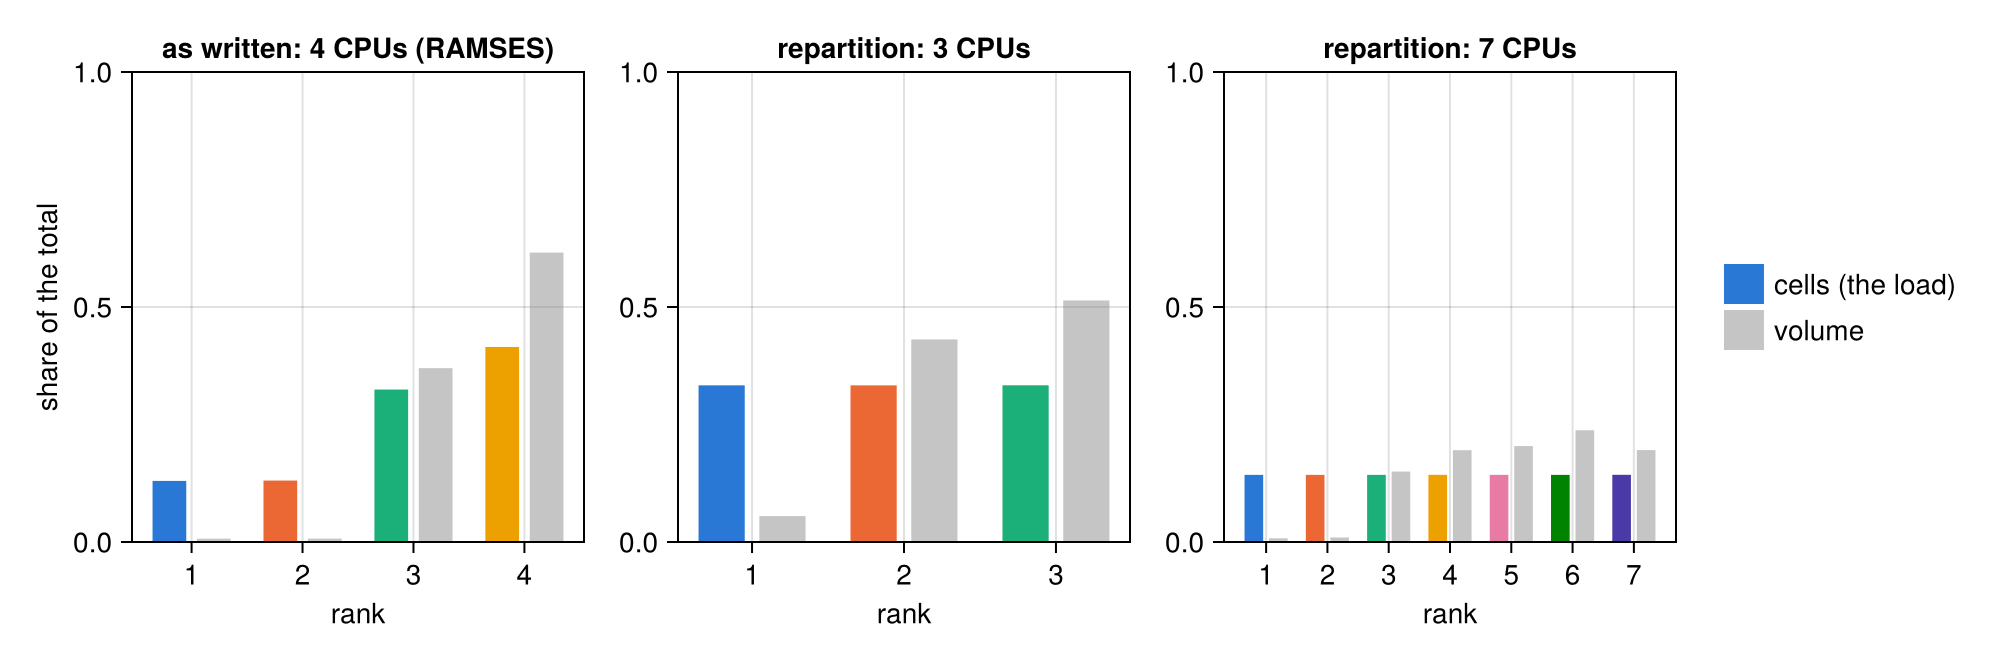
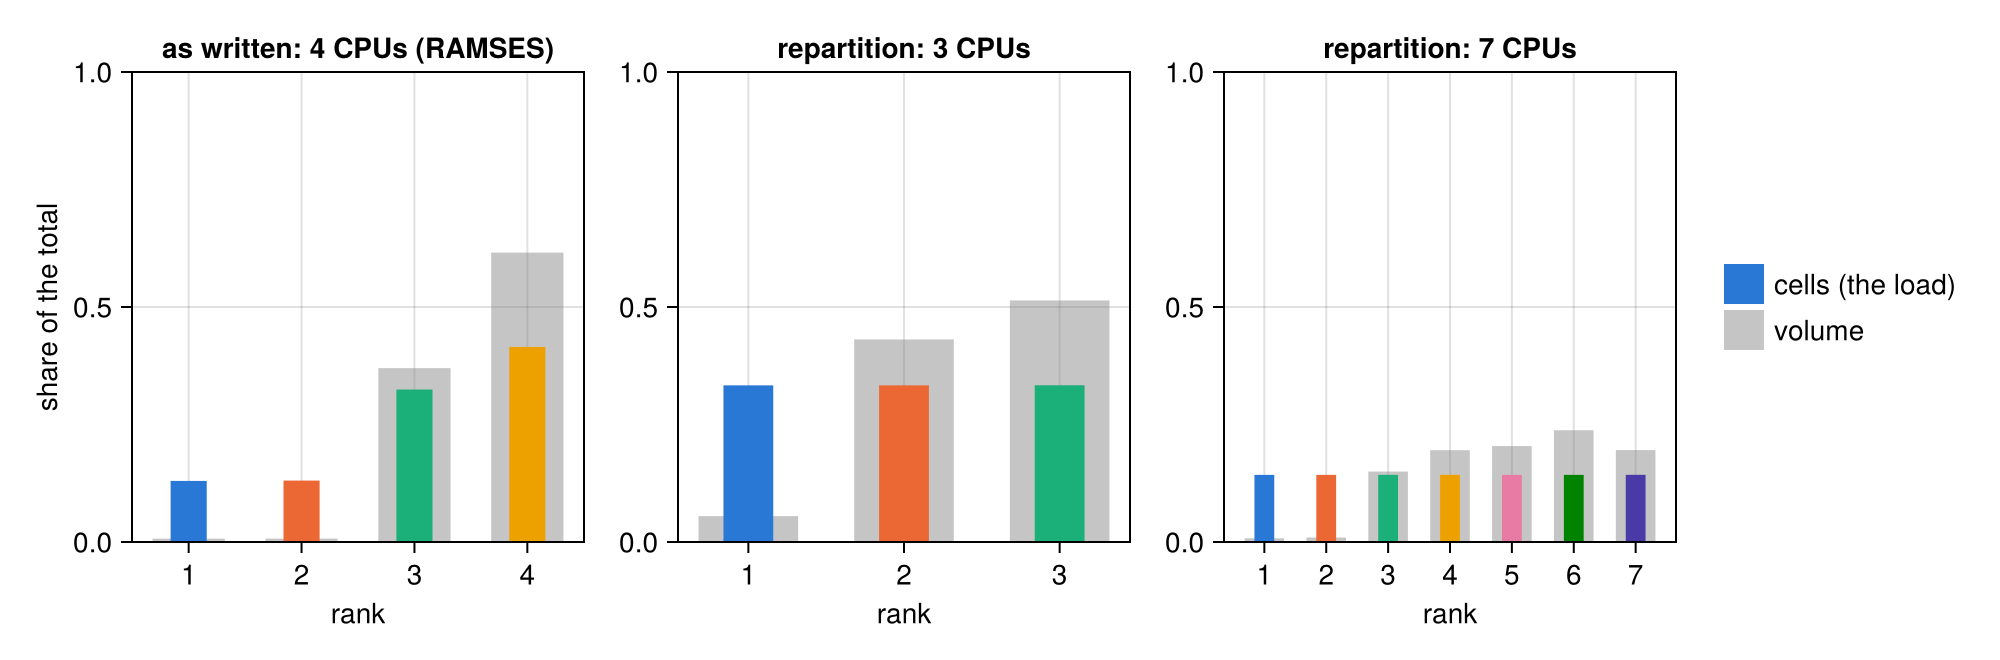
docs(ramses_writer): sources, check names, clearer figures and gravity text
- sources of all simulations: RAMSES, Mera's test data with NOTICE.md, the yt sample output
- the four check headings match the list at the top
- bars centred on each rank; error-map titles say what was converted to what
- why a restart is not bit-exact, and what parents=true changes, in plain words
- data loaded with Mera's smallr or smallc is refused, said in section 8

diff --git a/docs/src/07_2_multi_RAMSES_Restart.md b/docs/src/07_2_multi_RAMSES_Restart.md
@@ -45,11 +45,11 @@ Data loaded with `gethydro` and the other readers works the same. Load the gravi
 
 | function | what it does | more |
 |---|---|---|
-| [`repartition`](@ref) | rewrites a RAMSES output for any number of ranks; every value copied | [§3](#3.-repartition:-what-it-does,-step-by-step), [§5](#5.-Check-2:-the-values-do-not-change) |
+| [`repartition`](@ref) | rewrites a RAMSES output for any number of ranks; every value copied | [§3](#3.-repartition:-what-it-does,-step-by-step), [§5](#5.-Check-2:-same-values) |
 | [`writeramses`](@ref) | writes a RAMSES output from complete Mera data; leaf cells copied, refined cells rebuilt as RAMSES builds them | [§8](#8.-From-Mera-data-and-mera-files:-writeramses) |
 | [`restart_completeness`](@ref) | checks that Mera data holds the whole box: every level, variable and particle | [§8](#8.-From-Mera-data-and-mera-files:-writeramses) |
 | `getgravity(info; parents=true)` | also loads the gravity of the refined cells, which RAMSES needs to continue exactly | [§8](#8.-From-Mera-data-and-mera-files:-writeramses) |
-| [`compareramses`](@ref) | compares two outputs written with any numbers of ranks: octree, every value, every particle | [§5](#5.-Check-2:-the-values-do-not-change) |
+| [`compareramses`](@ref) | compares two outputs written with any numbers of ranks: octree, every value, every particle | [§5](#5.-Check-2:-same-values) |
 | [`upgrade_merafile`](@ref) | adds what a restart needs to a mera file saved before Mera 1.8.0 | [§9](#9.-Mera-files-written-before-1.8.0) |
 
 Both writers take `ordering=:bisection` and `iogroupsize=n` for runs that use them ([§10](#10.-Other-layouts-and-older-RAMSES-versions)).
@@ -57,7 +57,7 @@ Both writers take `ordering=:bisection` and `iogroupsize=n` for runs that use th
 **What to expect.** `repartition`: identical values. `writeramses`: identical leaf cells,
 particles and sinks; refined cells rebuilt. RAMSES then continues to round-off (`1e-15` gas, up to
 `2e-11` gravity), as it does when it changes the rank count itself
-([§7](#7.-Check-4:-RAMSES-continues-the-run), [§11](#11.-Every-kind-of-run,-every-route), [§12](#12.-When-results-differ,-and-by-how-much)). Large outputs: [§13](#13.-Large-outputs:-time-and-memory).
+([§7](#7.-Check-4:-same-evolution), [§11](#11.-Every-kind-of-run,-every-route), [§12](#12.-When-results-differ,-and-by-how-much)). Large outputs: [§13](#13.-Large-outputs:-time-and-memory).
 
 ## About this page
 
@@ -104,6 +104,13 @@ them or set the environment variables. The two main runs, both written on 4 CPUs
 
 The other runs (outflow walls, cosmological, MHD, RT, the public test simulations) are named where
 they are used.
+
+**Sources.** All runs on this page were made with RAMSES ([Teyssier 2002, A&A 385, 337](https://ui.adsabs.harvard.edu/abs/2002A%26A...385..337T)).
+The 4-CPU runs were made for this page. The public test simulations of section 11 are Mera's test
+data (`download_testdata()`); where each comes from and what to cite (RT, sinks, MHD) is listed in
+[`testdata/NOTICE.md`](https://github.com/ManuelBehrendt/Mera.jl/blob/master/testdata/NOTICE.md).
+The old-format cosmological run of section 10 is the yt project's sample output `output_00080`
+([download](https://yt-project.org/data/output_00080.tar.gz)).
 
 ```julia
 # Two RAMSES test runs, both written on 4 CPUs, and the RAMSES build that made them.
@@ -339,8 +346,8 @@ for (col, (ncpu, name, dec)) in enumerate(decs)
     volume = [sum(c.dx^3 for c in leaves if dec.cpu_map[c.l][c.g, c.ind] == k; init=0.0) for k in 1:ncpu]
     ax = Axis(fig[1, col]; title=name, xlabel="rank", ylabel = col == 1 ? "share of the total" : "",
               xticks=1:ncpu, limits=(nothing, (0, 1)))
-    barplot!(ax, (1:ncpu) .- 0.2, cells ./ sum(cells); width=0.38, color=CPU_COLORS[1:ncpu])
-    barplot!(ax, (1:ncpu) .+ 0.2, volume; width=0.38, color=(:gray, 0.45))
+    barplot!(ax, 1:ncpu, volume; width=0.8, color=(:gray, 0.45))                  # wide, behind
+    barplot!(ax, 1:ncpu, cells ./ sum(cells); width=0.4, color=CPU_COLORS[1:ncpu])  # narrow, in front
     @printf("%-28s cells per rank %s   (max/min %.3f)\n", name, string(cells), maximum(cells) / minimum(cells))
 end
 Legend(fig[1, 4], [PolyElement(color=CPU_COLORS[1]), PolyElement(color=(:gray, 0.45))],
@@ -356,10 +363,10 @@ repartition: 7 CPUs          cells per rank [1154, 1154, 1154, 1155, 1154, 1154,
 
 ![](07_2_multi_RAMSES_Restart_files/07_2_multi_RAMSES_Restart_11_3.png)
 
-Coloured bars: after `repartition` every rank holds the same number of cells, to within one.
+Narrow coloured bars, cells: after `repartition` every rank holds the same number of cells, to within one.
 RAMSES's own split is uneven (1,050 to 3,353 cells): it rebalances only every `nremap` steps, with
-its own cost function, and will rebalance the converted run the same way. Grey bars: the volume per
-rank differs a lot.
+its own cost function, and will rebalance the converted run the same way. Wide grey bars, volume: the
+volume per rank differs a lot.
 
 The cosmological test run at a = 0.2, split for 16 ranks in both orderings Mera writes (section 10).
 Left: the refinement level in a slice through the finest cells. Middle: Hilbert domains, pieces of
@@ -476,7 +483,7 @@ rep = repartition(6, SEDOV, 3; outpath=joinpath(WORK, "sedov_3cpu"));
 [5/5] particles, clump tables and text files
 RAMSES output repartitioned: ncpu 4 → 3
   from : /Volumes/FASTStorage/projects/RamsesConverter/testruns/sedov3d_amr_lb_ncpu4/output_00006
-  to   : /var/folders/k5/gw4hqgwj5_qf8sljz0091x1m0000gp/T/jl_s3bfeX/sedov_3cpu/output_00006
+  to   : /var/folders/k5/gw4hqgwj5_qf8sljz0091x1m0000gp/T/jl_I4GbYp/sedov_3cpu/output_00006
   own grids per rank      : min 335, max 338
   grids in memory per rank: min 592, max 673  (own + ghost + boundary)
   restart namelist needs  : ngridmax ≥ 674
@@ -486,7 +493,7 @@ RAMSES output repartitioned: ncpu 4 → 3
 The report's last line goes into the restart namelist: `ngridmax` (and `npartmax`) per rank. Fewer
 ranks need more per rank.
 
-## 4. Check 1: RAMSES's own files are reproduced
+## 4. Check 1: same files as RAMSES
 
 This check changes nothing: same output, same 4 ranks, same domain walls as RAMSES. Mera writes the
 four amr files (one per rank) again with its own writer and compares them with the files RAMSES
@@ -583,7 +590,7 @@ Every rank is rebuilt exactly. The same holds for every run of the RAMSES valida
 16-level cosmological run on 16 CPUs and a galaxy run on 640 CPUs. New splits come from the same
 code, so they are what RAMSES would write.
 
-## 5. Check 2: the values do not change
+## 5. Check 2: same values
 
 [`compareramses`](@ref) compares two outputs with any rank counts: the octree, every hydro, gravity
 and RT value (relative to the variable's largest value) and every particle, matched by identity. A
@@ -619,7 +626,7 @@ dm_gas 4 → 7          yes          0.0e+00        30000, 0.0e+00
 
 All zero: the values are copied, never recomputed.
 
-## 6. Check 3: RAMSES reads the files exactly
+## 6. Check 3: same data in RAMSES
 
 RAMSES rebuilds ghost zones and communication tables when it reads files, so a wrong pointer would
 show only there. The test: RAMSES reads the files and writes its memory out **before any step**,
@@ -701,15 +708,23 @@ stromgren3d_ncpu4         ✔ ✔ ✔ ✔ ✔ ✔ ✔ ✔
 104 of 104 dumps bit-identical
 ```
 
-## 7. Check 4: RAMSES continues the run
+## 7. Check 4: same evolution
 
 Two runs from output 6: RAMSES's own restart on 4 ranks, and the converted files on 3 ranks. Both
 run to output 7 (13 steps) and are compared there. Had RAMSES read anything wrong, they would drift
 apart.
 
-They cannot agree bit for bit. On another number of ranks RAMSES adds its sums (time step, gravity)
-in another order, and it converts velocity to momentum and back. The end of this section measures
-that floor on RAMSES alone.
+They cannot agree to the last digit, for two reasons inside RAMSES:
+
+- **Order of additions.** RAMSES adds up numbers from all ranks, for example to find the time step
+  and in the gravity solver. On 3 ranks it adds them in another order than on 4, and in computer
+  arithmetic the order can change the last digit.
+- **Conversion on reading.** The files store velocity and pressure, but RAMSES computes with
+  momentum and energy. When it reads a restart, it converts back, and that can change the last
+  digit too.
+
+The end of this section shows how large these differences are when RAMSES restarts itself, without
+Mera.
 
 ```julia
 # the converted output, in its own run directory, with a namelist sized for 3 ranks
@@ -846,7 +861,7 @@ restart also needs the whole octree, the refined (parent) cells and some header 
 | the octree | leaves with level and position | each leaf implies its ancestors: exact |
 | leaf values | all variables | copied |
 | refined hydro cells | not stored | average of the 8 children, as RAMSES's `upload_fine` (internal energy for `interpol_var` 1 or 2, else total energy) |
-| refined gravity cells | `getgravity(info; parents=true)` | stored as RAMSES wrote them: gravity is solved per level, not averaged |
+| refined gravity cells | only with `getgravity(info; parents=true)` | written back as RAMSES stored them. With `parents=false` (the default) Mera keeps only the leaves, `writeramses` fills these cells with averages of their children, and RAMSES continues less exactly (gas `5e-5`, below) |
 | ghost and boundary grids, pointers | not stored | built as in `repartition` |
 | time, time steps per level, energies | `info.grid_info.amr_header` | copied (in mera files since Mera 1.8.0) |
 
@@ -854,7 +869,10 @@ restart also needs the whole octree, the refined (parent) cells and some header 
 
 A restart needs every cell, level, variable and particle; a subregion cannot become a restart.
 [`restart_completeness`](@ref) checks this from the data itself, and `writeramses` refuses
-incomplete data. The key test: the leaves must fill the box exactly, counted in integers.
+incomplete data. The key test: the leaves must fill the box exactly, counted in integers. Data
+loaded with Mera's `smallr` or `smallc` is refused too, because these floors raise low values while
+loading. (The namelist's own `smallr` is a different thing: RAMSES applies it the same way to every
+run.)
 
 ```julia
 di   = getinfo(4, DMGAS, verbose=false)
@@ -1008,11 +1026,12 @@ gravity parents as stored  largest |Δρ|/ρ in this slice: 1.2e-14
 Stored gravity parents: round-off. Averaged ones: the gas differs by up to `5e-5` around the
 centre, the potential by `3e-6`.
 
-Why: RAMSES solves gravity on each level and keeps each level's potential in the refined cells.
-After a restart it starts from those and stops at its tolerance. Averages differ from RAMSES's own
-coarse potential by 0.3 to 0.6 %, so the solver stops at another answer, and the gas follows.
-`getgravity(info; parents=true)` keeps the stored values (in `used_descriptors[:parents]`, saved in
-mera files), and `writeramses` writes them back.
+Why the stored values matter: RAMSES computes gravity level by level, and keeps each level's result
+in the refined cells. After a restart, its next gravity calculation starts from these values and
+stops as soon as the result is accurate enough. Averages of the children are 0.3 to 0.6 % off
+RAMSES's own values, so the calculation starts elsewhere, stops at a slightly different answer, and
+the gas then moves a little differently. `getgravity(info; parents=true)` keeps RAMSES's values,
+they are saved in the mera file, and `writeramses` writes them back.
 
 The hydro parents need no storing. With `interpol_var` 1 or 2, RAMSES averages the children's
 **internal** energy and adds the parent's kinetic energy (`upl` in `hydro/interpol_hydro.f90`).
@@ -1185,7 +1204,8 @@ Outputs from before 2018 differ, and each difference is handled:
 | particle files without `part_file_descriptor.txt` | read and written in their legacy layout, metallicity included |
 | gravity files with the forces only | read as `[:ax, :ay, :az]` |
 
-A cosmological run from such a version (16 ranks, 1.09 million particles), loaded with Mera and
+A cosmological run from such a version, the yt sample output `output_00080` (16 ranks, 1.09 million
+particles), loaded with Mera and
 written back:
 
 ```julia
@@ -1470,9 +1490,11 @@ fluxes are averaged like every other parent.
 
 ### Where an error would show
 
-A converter's most likely bug is a wrong ghost cell or pointer at a rank border, so it would show
-along those borders. The maps show |Δρ|/ρ between the restart from the mera file and RAMSES's own,
-one output later; black dots mark the rank borders. Three hard cases:
+A converter's most likely bug is a wrong ghost cell or pointer at a border between ranks, so it
+would show along those borders. Three hard cases, each the full chain: the RAMSES output was saved
+as a mera file, `writeramses` wrote it for a new number of ranks, and RAMSES restarted from that.
+The maps show |Δρ|/ρ between this restart and RAMSES's own restart on the original ranks, one output
+later, in a slice. Black dots: the borders between the new ranks.
 
 ```julia
 # The leaf cell under each pixel for any box, also with wall layers (coarse cells around the box).
@@ -1508,9 +1530,9 @@ function rank_borders(dir, iout, z, n)
     r = leaf_slice(t, z, n, (l, g, ind) -> Float64(dec.cpu_map[l][g, ind]))
     [Point2f((i - 0.5) / n, (j - 0.5) / n) for i in 1:n-1, j in 1:n-1 if r[i, j] != r[i+1, j] || r[i, j] != r[i, j+1]]
 end
-cases = [("cosmo3d_ncpu8", "bisection", 3, 0.5, "cosmological, bisection, 5 ranks"),
-         ("mhdtube3d_ncpu4", "hilbert", 5, 0.5, "MHD tube, Hilbert, 3 ranks"),
-         ("stromgren3d_ncpu4", "bisection", 6, 0.03, "radiative transfer, bisection, 5 ranks")]
+cases = [("cosmo3d_ncpu8", "bisection", 3, 0.5, "cosmological: 8 → 5 ranks (bisection)"),
+         ("mhdtube3d_ncpu4", "hilbert", 5, 0.5, "MHD tube: 4 → 3 ranks (Hilbert)"),
+         ("stromgren3d_ncpu4", "bisection", 6, 0.03, "radiative transfer: 4 → 5 ranks (bisection)")]
 refs = Dict(r[1] => r[3] for r in mruns)
 fig = Figure(size=(1150, 420))
 for (col, (run, ord, o, zs, ttl)) in enumerate(cases)
@@ -1527,14 +1549,15 @@ fig
 ```
 
 ```
-cosmological, bisection, 5 ranks           largest |Δρ|/ρ in the slice 4.2e-16
-MHD tube, Hilbert, 3 ranks                 largest |Δρ|/ρ in the slice 0.0e+00
-radiative transfer, bisection, 5 ranks     largest |Δρ|/ρ in the slice 0.0e+00
+cosmological: 8 → 5 ranks (bisection)      largest |Δρ|/ρ in the slice 4.2e-16
+MHD tube: 4 → 3 ranks (Hilbert)            largest |Δρ|/ρ in the slice 0.0e+00
+radiative transfer: 4 → 5 ranks (bisection) largest |Δρ|/ρ in the slice 0.0e+00
 ```
 
 ![](07_2_multi_RAMSES_Restart_files/07_2_multi_RAMSES_Restart_66_4.png)
 
-Round-off without structure, or zero, and nothing along the rank borders.
+Round-off without structure, or exactly zero, and nothing along the rank borders: the new files
+give RAMSES the same neighbours at every border as its own files.
 
 ## 12. When results differ, and by how much
 
